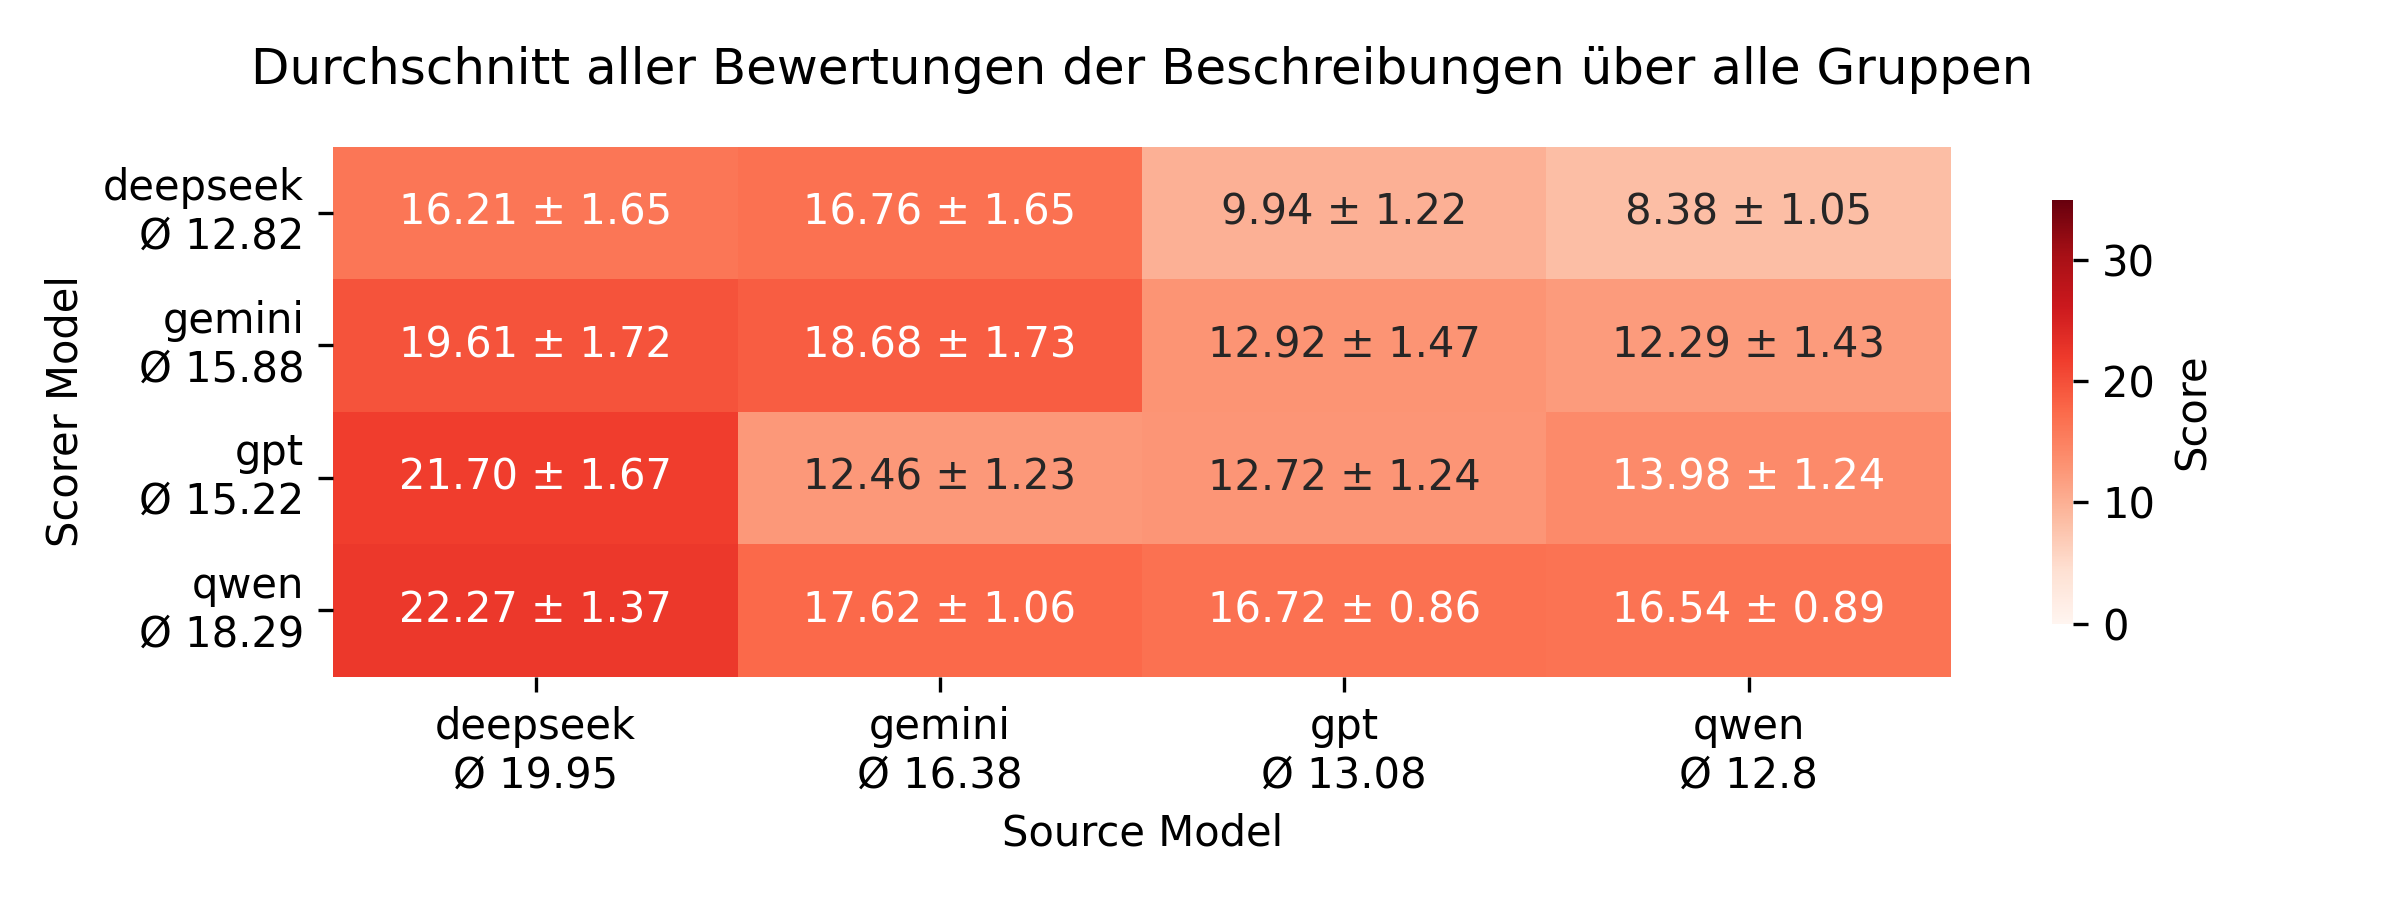
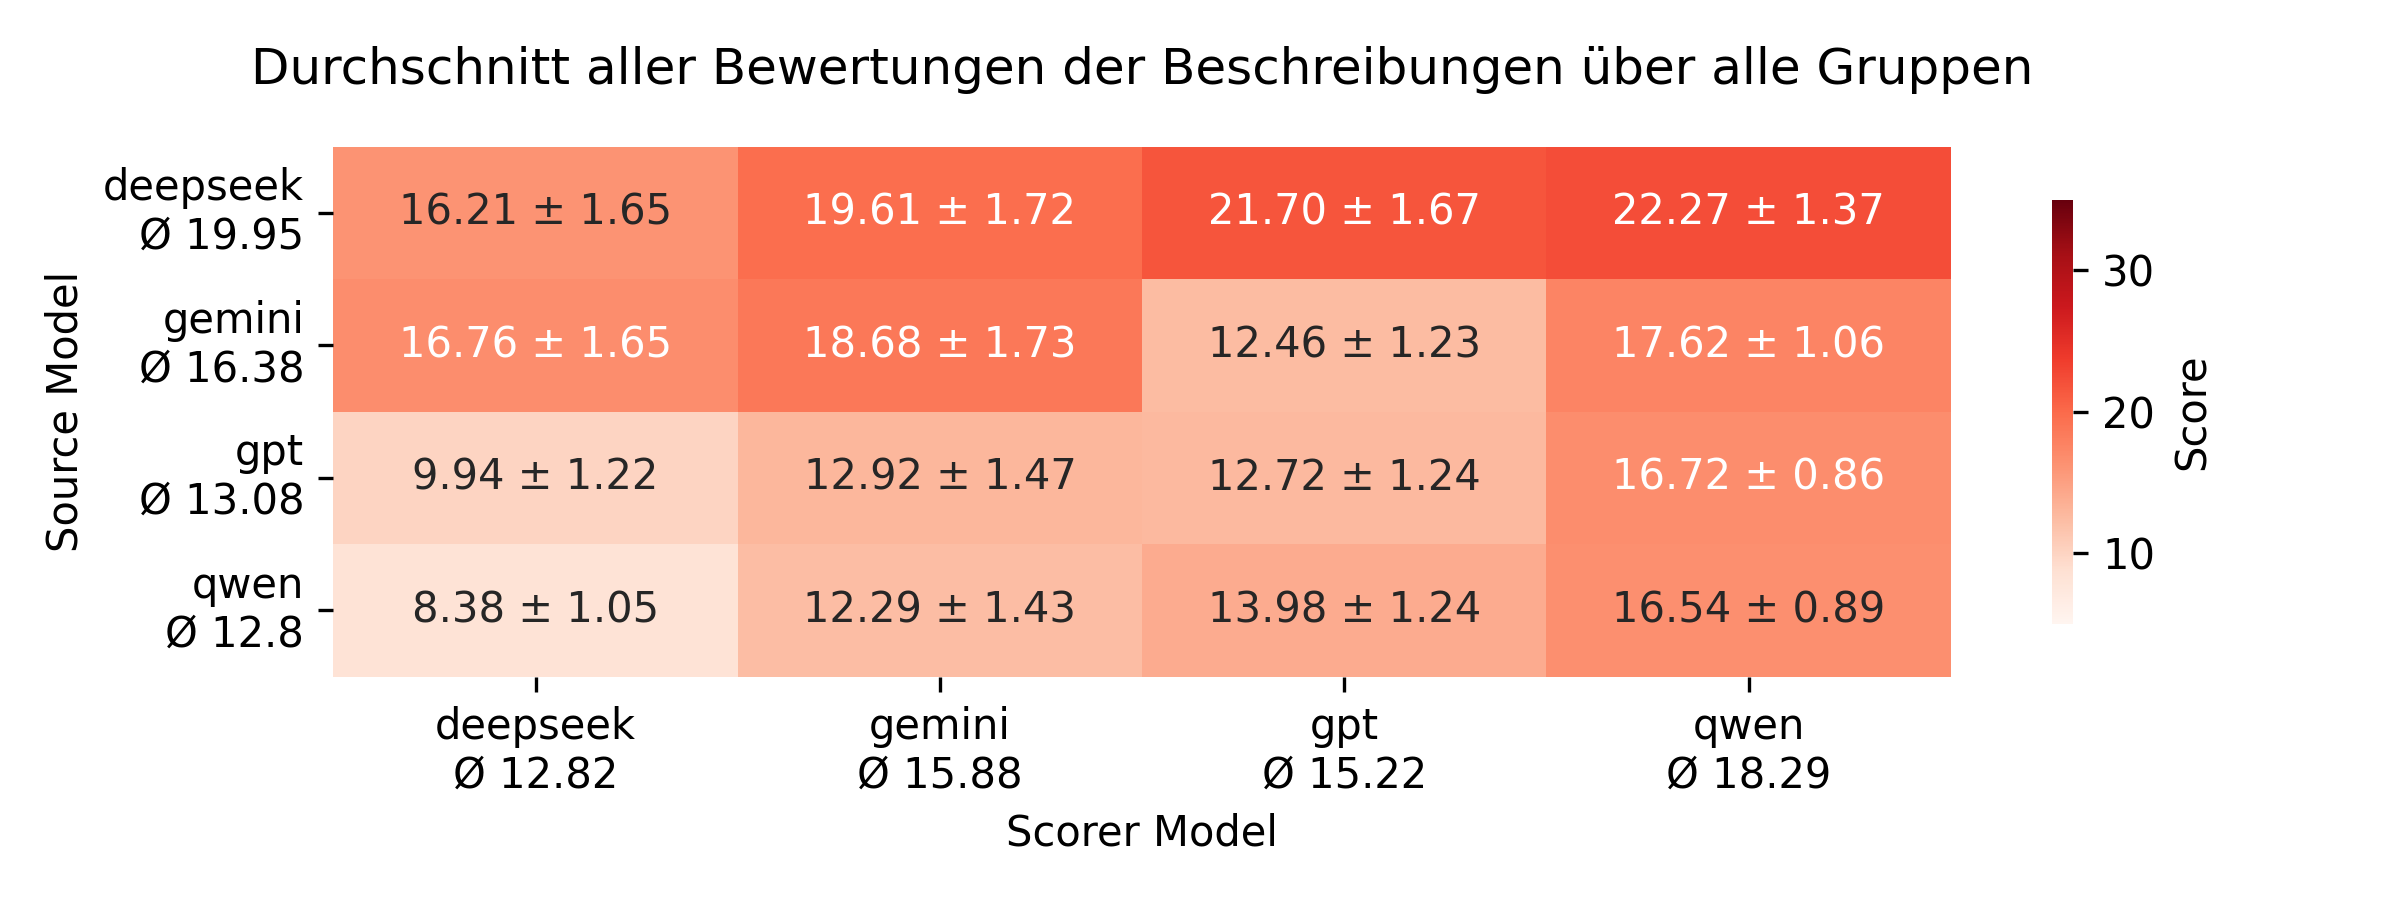
heatmaps

diff --git a/implizite_Analyse/factors_analysis/score_contributions.py b/implizite_Analyse/factors_analysis/score_contributions.py
@@ -19,11 +19,11 @@ for col in df.columns:
 if score_col is None:
     raise ValueError("Could not find a 'Score' or 'Score Contribution' column in the CSV file.")
 
-# Ensure the CSV contains a "Models" column to compare differences between models.
+# Ensure the CSV contains a "Source Model" column to compare differences between models.
 if "Source Model" not in df.columns:
-    raise ValueError("CSV does not contain a 'Models' column required for comparing models.")
+    raise ValueError("CSV does not contain a 'Source Model' column required for comparing models.")
 
-# Group the data by each factor and "Models", then unstack to show each model separately.
+# Group the data by each factor and "Source Model", then unstack to show each model separately.
 group_model_scores = df.groupby(["Group", "Source Model"])[score_col].sum().unstack(fill_value=0)
 language_model_scores = df.groupby(["Language", "Source Model"])[score_col].sum().unstack(fill_value=0)
 question_model_scores = df.groupby(["Question ID", "Source Model"])[score_col].sum().unstack(fill_value=0)
@@ -45,29 +45,63 @@ print(choice_set_model_scores, "\n")
 # Set up the directory to save charts.
 os.makedirs(save_dir, exist_ok=True)
 
-# Plotting function with saving capability.
-def plot_bar(data, title, save_path, xlabel="Category", ylabel="Total Score"):
+# Define the mapping for "Choice Set"
+choice_set_mapping = {
+    "(5,4,3,2,1) (de)": "5 → 1 (de)",
+    "(A,B,C,D) (de)": "A → D (de)",
+    "Extreme Verzerrungen erkennbar; Deutliche Verzerrungen erkennbar; Minimale Verzerrungen erkennbar; Keine Verzerrungen erkennbar (de)": "Extreme → Keine",
+    "(5,4,3,2,1) (en)": "5 → 1 (en)",
+    "(A,B,C,D) (en)": "A → D (en)",
+    "Severe distortions visible; Significant distortions visible; Minimal distortions visible; No distortion visible (en)": "Severe → No"
+}
+
+# Function to adjust x-ticks dynamically
+def adjust_xticks(ax, data, factor):
+    if factor == "Choice Set":
+        current_labels = data.index.tolist()
+        new_labels = [choice_set_mapping.get(label, label) for label in current_labels]
+
+        ax.set_xticks(range(len(new_labels)))  
+        ax.set_xticklabels(new_labels, rotation=45)
+
+# Plotting function with x-tick replacement
+def plot_bar(data, title, save_path, xlabel="Category", ylabel="Total Score", factor=None):
     plt.figure(figsize=(10, 7))
-    data.plot(kind="bar")
+    ax = data.plot(kind="bar")
     plt.title(title)
     plt.xlabel(xlabel)
     plt.ylabel(ylabel)
     plt.legend(title="Models")
+
+    # Apply x-tick adjustments if relevant
+    if factor == "Choice Set":
+        adjust_xticks(ax, data, factor)
+    else:
+        plt.xticks(rotation=90)
+
     plt.tight_layout()
-    plt.xticks(rotation=45) 
     plt.savefig(save_path)
     plt.close()
 
 # Create and save bar charts for each factor.
 plot_bar(group_model_scores, 
          "Score Contributions by Group (with Models)", 
-         os.path.join(save_dir, "score_contributions_by_group.png"))
+         os.path.join(save_dir, "score_contributions_by_group.png"),
+         factor="Group")
+
 plot_bar(language_model_scores, 
          "Score Contributions by Language (with Models)", 
-         os.path.join(save_dir, "score_contributions_by_language.png"))
+         os.path.join(save_dir, "score_contributions_by_language.png"),
+         factor="Language")
+
 plot_bar(question_model_scores, 
          "Score Contributions by Question ID (with Models)", 
-         os.path.join(save_dir, "score_contributions_by_question_id.png"))
+         os.path.join(save_dir, "score_contributions_by_question_id.png"),
+         factor="Question ID")
+
 plot_bar(choice_set_model_scores, 
          "Score Contributions by Choice Set (with Models)", 
-         os.path.join(save_dir, "score_contributions_by_choice_set.png"))
+         os.path.join(save_dir, "score_contributions_by_choice_set.png"),
+         factor="Choice Set")
+
+print(f"Charts saved in: {save_dir}")

diff --git a/implizite_Analyse/heatmaps/generate_heatmap_model_model.py b/implizite_Analyse/heatmaps/generate_heatmap_model_model.py
@@ -4,7 +4,7 @@ import numpy as np
 import seaborn as sns
 import matplotlib.pyplot as plt
 
-run = 'combined'
+run = 'run_3'
 
 # 0. Create output directory if it doesn't exist
 output_dir = f"implizite_Analyse/heatmaps/{run}"
@@ -13,35 +13,34 @@ os.makedirs(output_dir, exist_ok=True)
 # 1. Read the CSV
 df = pd.read_csv(f"implizite_Analyse/results/{run}/scoring_model_model.csv")
 
-# 2. Pivot the data so that rows = Scorer Model, columns = Source Model
-df_mean = df.pivot(index="Scorer Model", columns="Source Model", values="Score")
-df_std = df.pivot(index="Scorer Model", columns="Source Model", values="SEM")
-
+# 2. Pivot the data so that rows = Source Model, columns = Scorer Model
+df_mean = df.pivot(index="Source Model", columns="Scorer Model", values="Score")
+df_std = df.pivot(index="Source Model", columns="Scorer Model", values="SEM")
 
 # 4. Prepare text annotations of the form "mean ± SEM"
 annot_matrix = df_mean.copy()
-for scorer in df_mean.index:
-    for source in df_mean.columns:
-        m = df_mean.loc[scorer, source]
-        s = df_std.loc[scorer, source]
-        annot_matrix.loc[scorer, source] = f"{m:.2f} ± {s:.2f}"
+for source in df_mean.index:
+    for scorer in df_mean.columns:
+        m = df_mean.loc[source, scorer]
+        s = df_std.loc[source, scorer]
+        annot_matrix.loc[source, scorer] = f"{m:.2f} ± {s:.2f}"
 
 # 5. Create custom row and column labels that include average values
-row_avgs = df_mean.mean(axis=1).round(2)
-col_avgs = df_mean.mean(axis=0).round(2)
+row_avgs = df_mean.mean(axis=1).round(2)  # Average for each Source Model (rows)
+col_avgs = df_mean.mean(axis=0).round(2)  # Average for each Scorer Model (columns)
 
 new_row_labels = [f"{idx}\nØ {row_avgs[idx]}" for idx in df_mean.index]
 new_col_labels = [f"{col}\nØ {col_avgs[col]}" for col in df_mean.columns]
 
 # 7. Plot the heatmap
-plt.figure(figsize=(8, 3))  # Adjust for a similar aspect ratio as your example
+plt.figure(figsize=(8, 3))
 ax = sns.heatmap(
     df_mean,
     cmap="Reds",
-    vmin=0,  # Adjust if your data range is different
-    vmax=35,  # Adjust if your data range is different
+    vmin=5,
+    vmax=35,
     annot=annot_matrix,
-    fmt="",  # We've pre-formatted the annotation strings
+    fmt="",
     linecolor="white",
     cbar_kws={"shrink": 0.8, "label": "Score"}
 )
@@ -49,8 +48,8 @@ ax = sns.heatmap(
 # 8. Tidy up labels and title
 ax.set_xticklabels(new_col_labels, rotation=0, ha="center")
 ax.set_yticklabels(new_row_labels, rotation=0)
-ax.set_xlabel("Source Model")
-ax.set_ylabel("Scorer Model")
+ax.set_xlabel("Scorer Model")
+ax.set_ylabel("Source Model")
 ax.set_title("Durchschnitt aller Bewertungen der Beschreibungen über alle Gruppen", pad=15)
 
 plt.tight_layout()

diff --git a/implizite_Analyse/heatmaps/generate_heatmap_model_group.py b/implizite_Analyse/heatmaps/generate_heatmap_model_group.py
@@ -4,7 +4,7 @@ import numpy as np
 import seaborn as sns
 import matplotlib.pyplot as plt
 
-run = 'combined'
+run = 'run_3'
 
 # 0. Create output directory if it doesn't exist
 output_dir = f"implizite_Analyse/heatmaps/{run}"
@@ -38,7 +38,7 @@ plt.figure(figsize=(10, 3))  # Adjust for a similar aspect ratio as your example
 ax = sns.heatmap(
     df_mean,
     cmap="Reds",
-    vmin=0,  # Adjust if your data range is different
+    vmin=5,  # Adjust if your data range is different
     vmax=35,  # Adjust if your data range is different
     annot=annot_matrix,
     fmt="",  # We've pre-formatted the annotation strings
